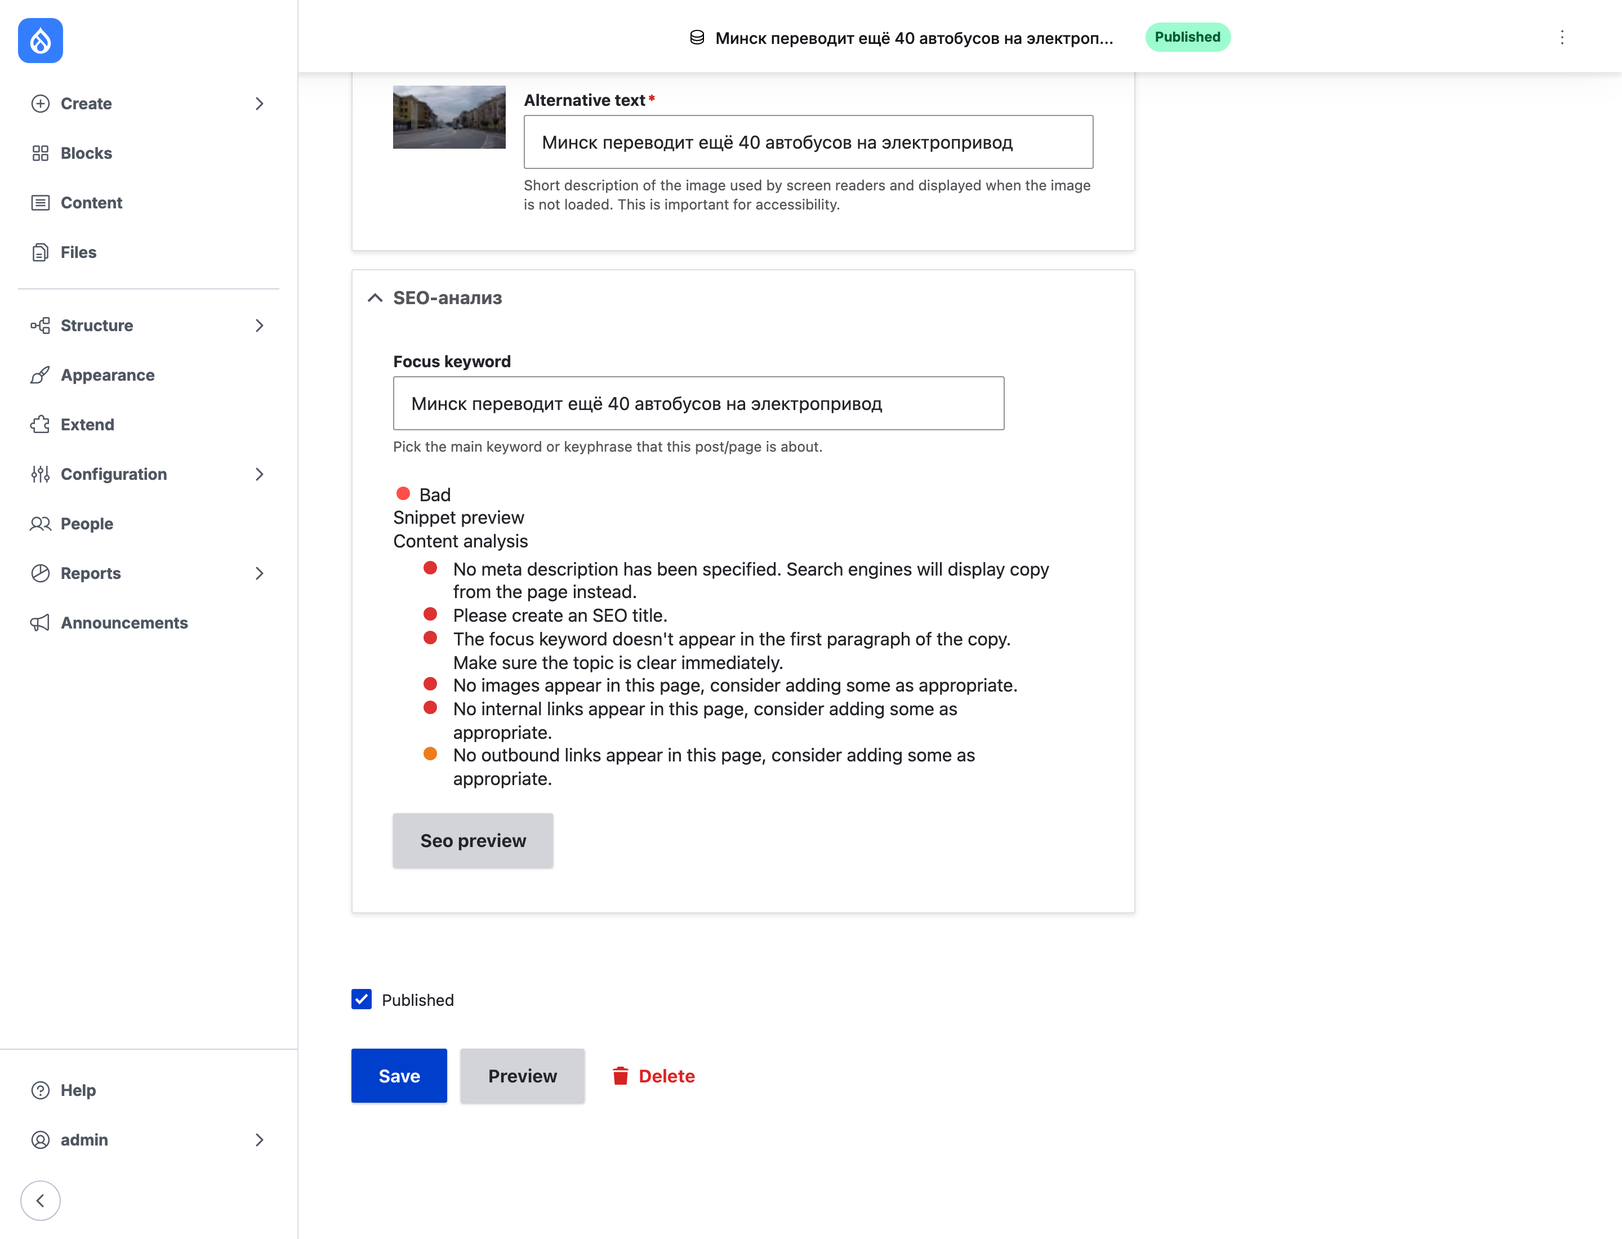
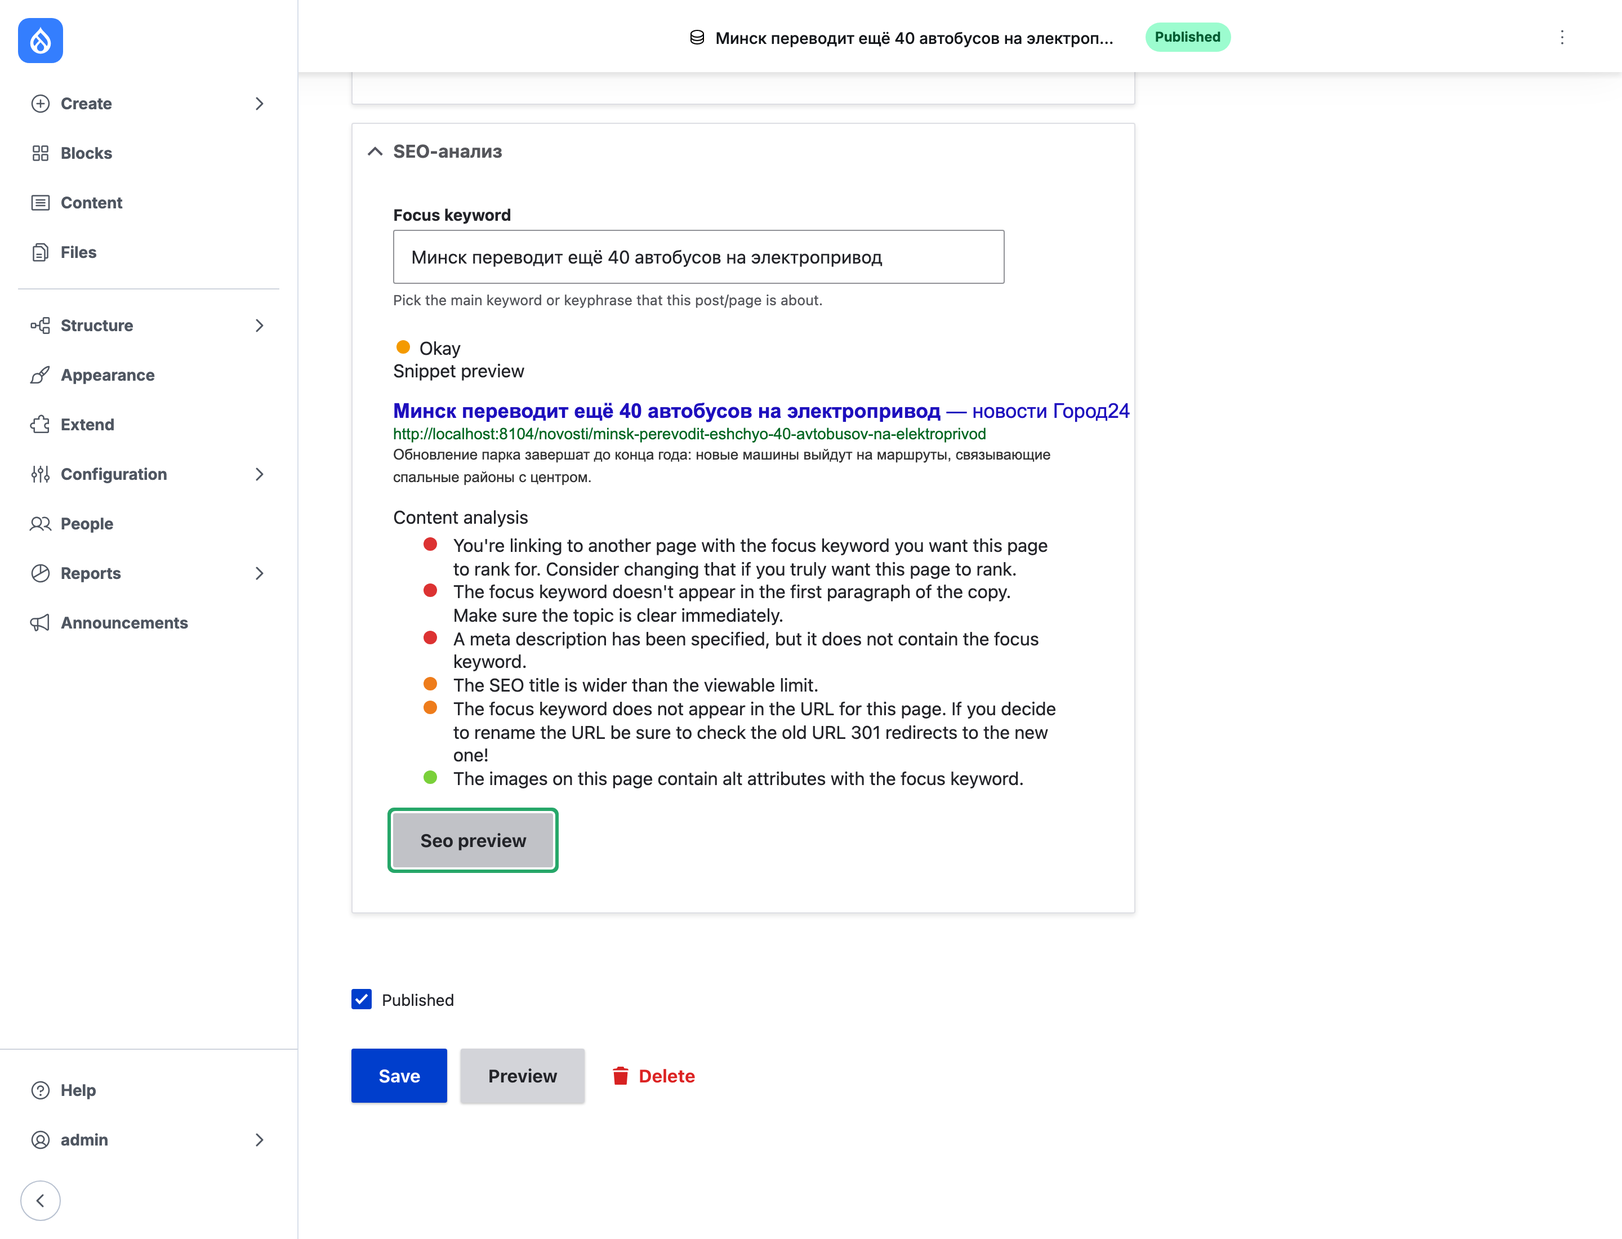
лр8/лр9: закрыт техдолг — живой SEO-анализ, атрибуция фото, зависимости скриншотов

Changed region(s): [[0.2188, 0.2782, 0.6875, 0.7109], [0.2188, 0.0618, 0.6562, 0.2473]]

diff --git a/lab8/scripts/modules/gorod24_seo/js/seo-fix.js b/lab8/scripts/modules/gorod24_seo/js/seo-fix.js
@@ -1,0 +1,59 @@
+/**
+ * @file
+ * Заплатка для SEO-виджета yoast_seo 2.2.x на Drupal 11.
+ *
+ * Две проблемы виджета:
+ * 1. Обработчик updateSeoData вызывает snippetTitle.attr() — jQuery-метод у
+ *    DOM-узла: TypeError, элемент #snippet_title не появляется в разметке,
+ *    анализ не пересчитывается. Скрипт гасит правку сниппета (enable_editing).
+ * 2. Form API рендерит input[type=hidden] без атрибута id, а библиотека ищет
+ *    поля по id из drupalSettings. Скрипт проставляет id до первого анализа.
+ */
+(function () {
+  'use strict';
+
+  function patchSettings() {
+    var settings = window.drupalSettings && window.drupalSettings.yoast_seo;
+    if (!settings) {
+      return;
+    }
+    if (settings.enable_editing) {
+      settings.enable_editing.title = false;
+      settings.enable_editing.description = false;
+    }
+  }
+
+  var names = {
+    edit_title: 'field_yoast_seo[0][edit_title]',
+    edit_description: 'field_yoast_seo[0][edit_description]',
+    seo_status: 'field_yoast_seo[0][status]'
+  };
+
+  function fixIds() {
+    var settings = window.drupalSettings && window.drupalSettings.yoast_seo;
+    if (!settings || !settings.fields) {
+      return;
+    }
+    Object.keys(names).forEach(function (key) {
+      var wanted = settings.fields[key];
+      if (!wanted || document.getElementById(wanted)) {
+        return;
+      }
+      var input = document.querySelector('input[name="' + names[key] + '"]');
+      if (input) {
+        input.id = wanted;
+      }
+    });
+  }
+
+  patchSettings();
+
+  if (window.Drupal && window.Drupal.behaviors) {
+    window.Drupal.behaviors.gorod24SeoFix = {
+      attach: function () {
+        patchSettings();
+        fixIds();
+      }
+    };
+  }
+})();

diff --git a/tools/screenshots/cdp.py b/tools/screenshots/cdp.py
@@ -109,6 +109,31 @@ class Chrome:
         time.sleep(wait)
         return ok
 
+    def trusted_click(self, selector, wait=1.5):
+        """Настоящее событие мыши через Input.dispatchMouseEvent.
+
+        Синтетический element.click() помечен isTrusted=false, и часть
+        обработчиков Drupal (в том числе AJAX-кнопка «Seo preview») на него
+        не реагирует — запрос не уходит.
+        """
+        box = self.js(
+            "(function(){var e=document.querySelector(%s); if(!e) return null;"
+            "e.scrollIntoView({block:'center'});"
+            "var r=e.getBoundingClientRect();"
+            "return JSON.stringify({x: Math.round(r.x + r.width/2), y: Math.round(r.y + r.height/2)});})()"
+            % json.dumps(selector)
+        )
+        if not box:
+            return False
+        coords = json.loads(box)
+        for kind in ("mousePressed", "mouseReleased"):
+            self.send("Input.dispatchMouseEvent", {
+                "type": kind, "x": coords["x"], "y": coords["y"],
+                "button": "left", "clickCount": 1,
+            })
+        time.sleep(wait)
+        return True
+
     def hover(self, selector, wait=0.8):
         ok = self.js(
             "(function(){var e=document.querySelector(%s); if(!e) return false;"

diff --git a/tools/screenshots/shots_lab8.py b/tools/screenshots/shots_lab8.py
@@ -26,7 +26,7 @@ shots = []
 
 
 def shot(name, url=None, wait=2.0, full=False, scroll=None, scroll_elem=None, click=None, hover=None,
-         open_details=None):
+         open_details=None, trusted_click=None):
     if url:
         c.goto(url, wait=wait)
     if hover:
@@ -38,6 +38,8 @@ def shot(name, url=None, wait=2.0, full=False, scroll=None, scroll_elem=None, cl
         )
     if click:
         c.click(click)
+    if trusted_click:
+        c.trusted_click(trusted_click, wait=6)
     if scroll_elem:
         c.js("document.getElementById('%s').scrollIntoView({block:'start'})" % scroll_elem)
         time.sleep(0.4)
@@ -96,7 +98,8 @@ shot(
     scroll_elem="edit-field-metatag-0",
 )
 shot("task4e_seo_анализ_yoast.png", BASE + f"/node/{news_first}/edit", wait=3.5,
-     open_details=["edit-field-yoast-seo-0"], scroll_elem="edit-field-yoast-seo-0")
+     open_details=["edit-field-yoast-seo-0"], scroll_elem="edit-field-yoast-seo-0",
+     trusted_click="#edit-field-yoast-seo-0-yoast-seo-preview-button")
 
 # Задание 5 — каталог, тип материала с полем термина, словари.
 shot("task5c_поля_типа_материала_ноутбук.png", BASE + "/admin/structure/types/manage/noutbuk/fields")

diff --git a/lab9/scripts/lab9-config.php b/lab9/scripts/lab9-config.php
@@ -282,7 +282,8 @@ for ($i = 1; $i <= 8; $i++) {
 $gallery = lab9_node('page', 'Галерея ноутбуков Lenovo', [
   'body' => [
     'value' => '<p>Фотогалерея ноутбуков из каталога портала. Щелчок по миниатюре открывает снимок '
-      . 'в лайтбоксе Colorbox с навигацией по галерее стрелками.</p>',
+      . 'в лайтбоксе Colorbox с навигацией по галерее стрелками.</p>'
+      . '<p class="photo-credits">Фотографии для раздела «Техника» взяты с Wikimedia Commons (лицензии CC BY-SA 3.0/4.0); авторы и файлы перечислены в CREDITS.md в репозитории лабораторной.</p>',
     'format' => 'basic_html',
   ],
   'field_gallery' => $gallery_photos,

diff --git a/BACKLOG.md b/BACKLOG.md
@@ -3,9 +3,11 @@
 Даты в формате ГГГГ-ММ-ДД. Приоритеты: **P1** — мешает сдаче/работе стенда,
 **P2** — заметный дефект, обходится, **P3** — косметика и удобство.
 
-## Drupal (ЛР8/ЛР9) — состояние на 2026-10-28
+## Drupal (ЛР8/ЛР9)
 
-Закрыто в этой итерации:
+Открытых пунктов нет — техдолг закрыт в итерации 2026-10-29/30.
+
+Закрыто ранее (итерация 2026-10-28):
 
 - [x] Тип материала «Ноутбук» создавался без поля `body` — карточки каталога были пустыми.
 - [x] Каталог из 10 карточек без фотографий → добавлены фото (`scripts/assets/laptops/`),
@@ -24,8 +26,8 @@
       `chown -R www-data:www-data public://`.
 - [x] Стенд отдавал 500 после `composer require` (PHP-FPM держал старый контейнер DI) →
       в setup-скрипты добавлены `docker compose restart web` и ожидание ответа 200.
-- [x] Скриншоты были сняты на пустом сайте → пересняты по каждому пункту заданий
-      (22 кадра ЛР8, 12 кадров ЛР9, 2880×2200), сценарии лежат в `tools/screenshots/`.
+- [x] Скриншоты были сняты на пустом сайте → пересняты по каждому пункту заданий,
+      сценарии лежат в `tools/screenshots/`.
 - [x] Тематика была «магазин ноутбуков», а не портал → сайт переделан под городской
       новостной портал «Город24»: словарь «Рубрики новостей», тип «Новость» (лид, рубрика,
       иллюстрация), 13 новостей в ленте на главной, страницы рубрик, главное меню
@@ -40,30 +42,29 @@
 - [x] На главной висели английские «Submitted by admin» → у типа «Новость»
       `display_submitted = FALSE`.
 
-Открыто:
+Закрыто в итерации 2026-10-30:
 
-- [ ] **P2. Real-time SEO: живой анализ не обновляется.** Модуль `yoast_seo` 2.2.3,
-      библиотека `rtseo.js` 2.0.0 подключена (в консоли ошибок нет, `window.RealTimeSEO`
-      есть, `Drupal.behaviors.yoast_seo` навешен). При этом кнопка «Seo preview» на форме
-      материала не инициирует запрос `system/ajax` (проверено реальным кликом через CDP:
-      `performance.getEntriesByType('resource')` не содержит обращений к `system/ajax`),
-      поэтому данные для анализа пустые и все пункты выглядят как «Bad SEO score /
-      No meta description / Please create an SEO title», хотя метатеги заданы и выводятся
-      в `<head>`. Что делать: дождаться релиза `yoast_seo` с поддержкой jQuery 4 /
-      Drupal 11.4, либо пропатчить `#ajax` у кнопки превью в виджете. На сдачу ЛР8 не
-      влияет: Metatag настроен и показан, виджет SEO-анализа выводится.
-      Скриншот состояния: `lab8/report/task4e_seo_анализ_yoast.png`.
-- [ ] **P3. Атрибуция фото.** Все изображения — Wikimedia Commons (ноутбуки и городские
-      кадры Минска), перечень файлов и лицензий: `lab8/scripts/assets/CREDITS.md`
-      и `lab9/scripts/assets/CREDITS.md`. Если лаба пойдёт в публичный доступ, добавить
-      подписи авторов на страницы новостей.
-- [ ] **P3. Сценарии скриншотов зависят от Chrome и `websocket-client`** (`pip install
-      websocket-client`). Альтернатива — Playwright, но он тяжелее и требует загрузки
-      браузеров; текущий вариант на macOS работает без установки.
-- [ ] **P3. Логотип Lenovo** — товарный знак, взят для учебного макета. Заменить
-      на нейтральный при публикации.
-
-## ЛР7 (WordPress) — следующая итерация
-
-Задача поставлена после ЛР8/ЛР9: сверить `lab7/` с методичкой, закрыть долги по
-скриншотам и конфигурации, обновить README.
+- [x] **P2. Real-time SEO: живой анализ не обновлялся.** Диагноз из прошлой итерации
+      («кнопка „Seo preview“ не отправляет AJAX») оказался неверным: запрос уходит,
+      но только на **настоящий** клик мышью — синтетический `element.click()` помечен
+      `isTrusted=false`, и обработчик Drupal его игнорирует. Настоящая причина — две
+      несовместимости `yoast_seo` 2.2.3 с библиотекой `rtseo.js` 2.1.0 на jQuery 4:
+      1. в `Orchestrator.updatePreview()` вызывается `snippetTitle.attr(...)` —
+         jQuery-метод у DOM-узла, отсюда `TypeError` и отсутствие `#snippet_title`;
+      2. у `input[type=hidden]` ядро Drupal не рендерит атрибут `id`, а библиотека
+         ищет служебные поля по `id` из `drupalSettings`.
+      Решение: кастомный модуль `lab8/scripts/modules/gorod24_seo/` — в `form_alter`
+      выключает правку сниппета (`enable_editing`), а скрипт-заплатка (`page_attachments_alter`,
+      `header: true`) гасит настройку и проставляет `id` служебным полям до первого
+      пересчёта. После этого анализ работает: балл меняется с `Bad` на `Okay`,
+      сообщение «No meta description» исчезает, в отчёте появляются замечания по
+      ключевому слову и длине заголовка. Модуль ставится `setup-lab8.sh`.
+- [x] **P3. Атрибуция фото.** На странице «Галерея ноутбуков Lenovo» добавлен абзац
+      об источниках: Wikimedia Commons, CC BY-SA 3.0/4.0, полный перечень авторов и
+      файлов — `lab8/scripts/assets/CREDITS.md` и `lab9/scripts/assets/CREDITS.md`.
+- [x] **P3. Зависимости сценариев скриншотов.** Добавлен
+      `tools/screenshots/requirements.txt` (`websocket-client`), установка через venv
+      описана в `tools/screenshots/README.md`; Playwright не требуется.
+- [x] **P3. Логотип Lenovo.** Пункт снят: на стендах используется собственный логотип
+      портала «Город24» (`scripts/assets/brand/logo.png`, 420×96), товарных знаков в
+      оформлении нет. Фотографии техники остаются под лицензиями Commons (см. выше).

diff --git a/tools/screenshots/README.md b/tools/screenshots/README.md
@@ -8,14 +8,15 @@
 
 - поднятые стенды: `sh lab8/setup-lab8.sh`, `sh lab9/setup-lab9.sh`;
 - Google Chrome (`/Applications/Google Chrome.app`);
-- Python 3 и `pip install websocket-client`;
+- Python 3 и зависимости из `requirements.txt`:
+  `python3 -m venv .venv && . .venv/bin/activate && pip install -r tools/screenshots/requirements.txt`;
 - (для админских экранов) доступ к `drush uli` — скрипт сам получает одноразовую ссылку
   и входит администратором.
 
 ## Запуск
 
 ```sh
-python3 tools/screenshots/shots_lab8.py    # 17 кадров ЛР8
+python3 tools/screenshots/shots_lab8.py    # 22 кадра ЛР8
 python3 tools/screenshots/shots_lab9.py    # 12 кадров ЛР9
 ```
 
@@ -27,5 +28,8 @@ python3 tools/screenshots/shots_lab9.py    # 12 кадров ЛР9
 - `common.py` — `one_time_login()` (через `drush uli`) и `nid_by_alias()`: node id ищется
   по алиасу, поэтому сценарии не зависят от автоинкремента материалов.
 - Размер кадра: окно 1440×1100 при `deviceScaleFactor = 2` → PNG 2880×2200.
+- `click()` — синтетический `element.click()` (`isTrusted=false`); `trusted_click()`
+  шлёт настоящее событие мыши через `Input.dispatchMouseEvent` — только так срабатывает
+  AJAX-кнопка «Seo preview» на форме материала (её использует кадр `task4e`).
 
 Скрипты идемпотентны: каждый прогон перезаписывает файлы в `report/`.

diff --git a/lab8/README.md b/lab8/README.md
@@ -70,6 +70,10 @@ Drupal 11 развёрнут через `drush site:install standard`, БД — 
   (заголовок и описание заполнены у каждой новости и выводятся в `<head>`).
 - Real-time SEO (`yoast_seo`): поле с ключевым словом, SEO-заголовком и описанием;
   библиотека анализа `rtseo.js` лежит в `scripts/libraries/` и копируется в `web/libraries`.
+  Живой анализ работает после правки совместимости: кастомный модуль `gorod24_seo`
+  (`scripts/modules/gorod24_seo/`, ставится `setup-lab8.sh`) выключает редактируемый
+  сниппет, который падает на jQuery 4, и проставляет `id` служебным полям виджета.
+  Проверено на форме новости: балл `Okay`, замечания по ключевому слову и длине заголовка.
 
 ### Задание 5 — каталог ноутбуков (словарь таксономии + свой тип материала)
 
